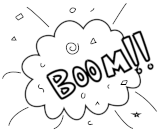
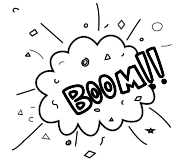
added rocket and failure to launch images

diff --git a/styles.css b/styles.css
@@ -1,3 +1,7 @@
+body {
+    font-family: sans-serif ;
+}
+
 .left, .right {
     position: fixed;
     width: 50%;
@@ -8,6 +12,10 @@
 .left {
     background-color: aquamarine;
     left: 0;
+    text-align: center;
+    display: flex;
+    justify-content: center;
+    align-items: center;
 }
 
 .right {
@@ -30,6 +38,7 @@
 body.body-state1 .rocket {
     transition: none;
 }
+
 body.body-state3 .rocket,
 body.body-state4 .rocket {
     bottom: 1000px;
@@ -38,6 +47,9 @@ body.body-state4 .rocket {
 body.body-state5 .rocket {
     background: url(./images/boom.png);
     background-repeat: no-repeat;
+    margin-left: -96px;
+    width: 192px;
+    bottom: 10px;
 }
 
 .ground {
